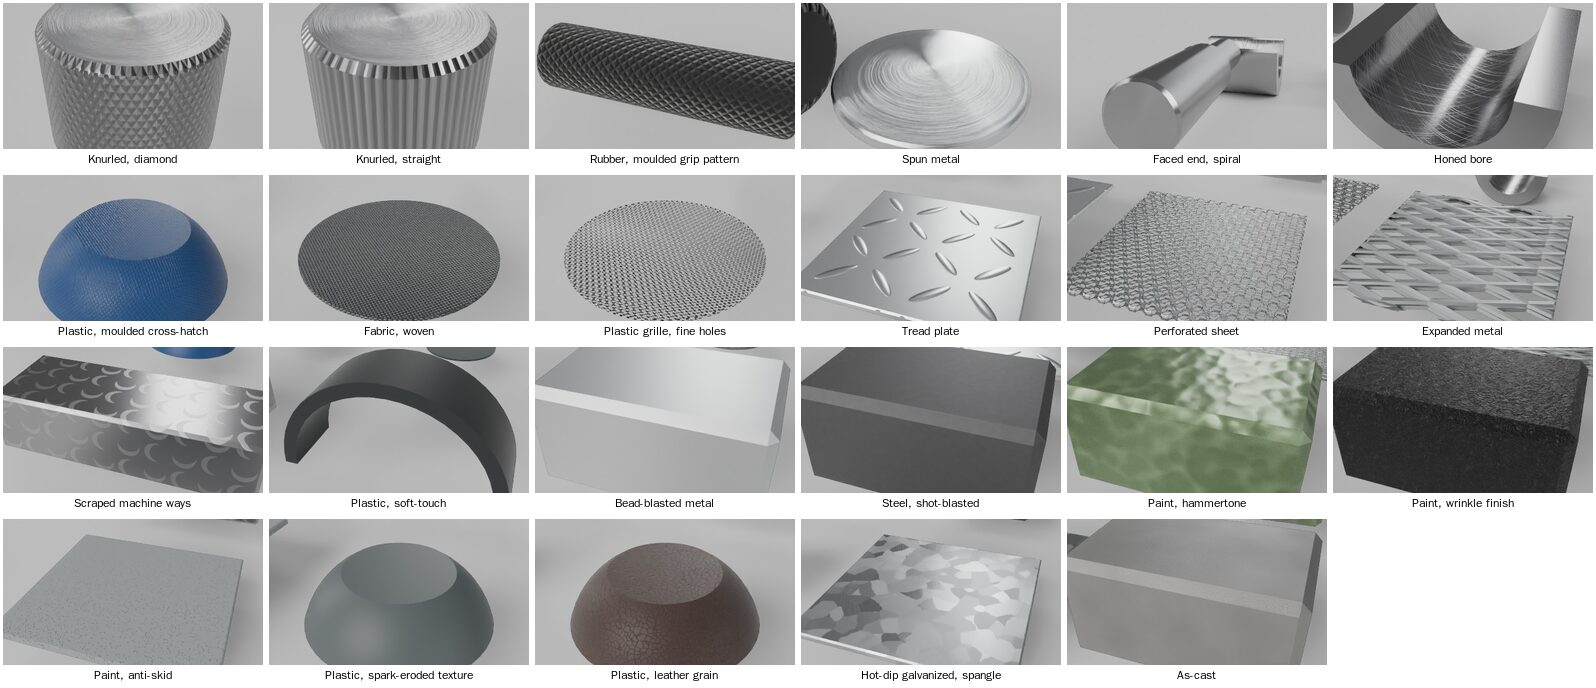
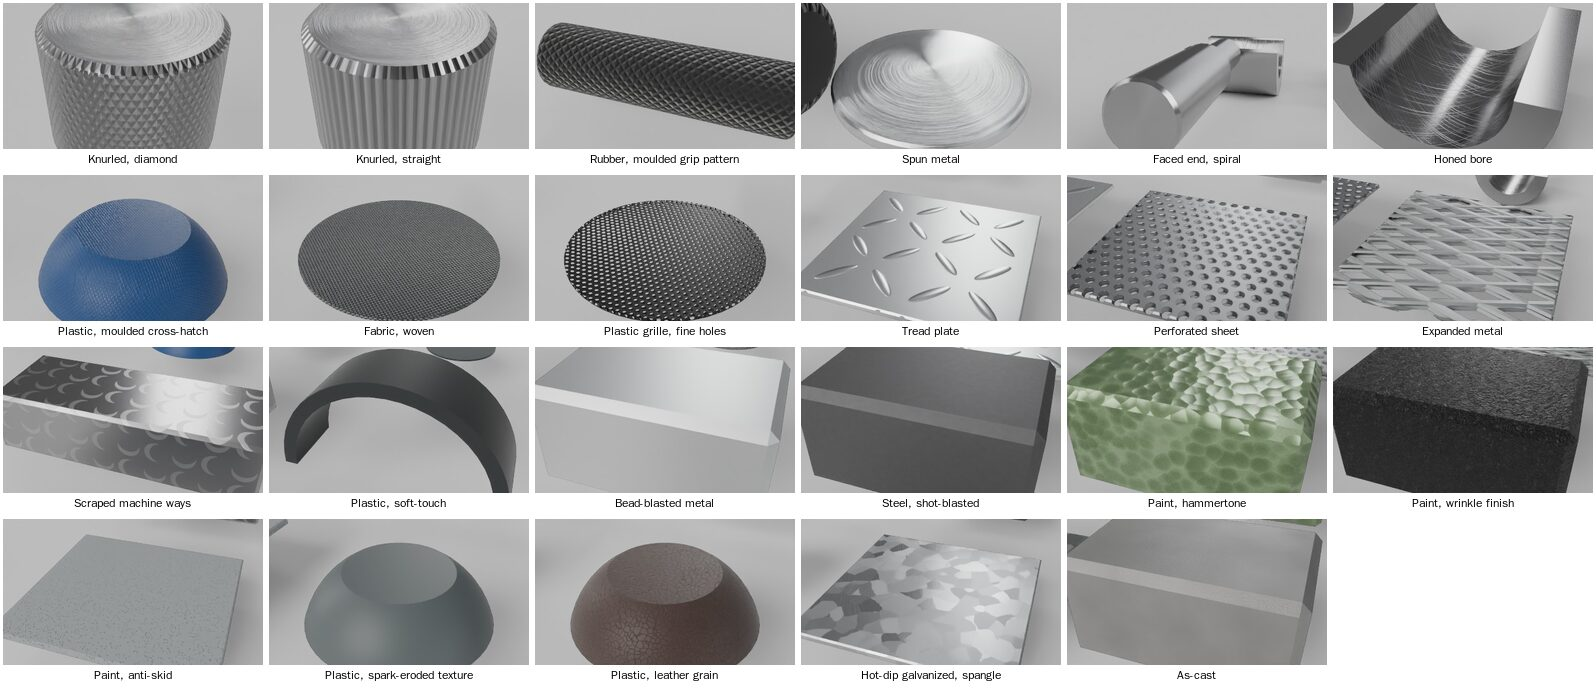
0274: hammertone with F1 Voronoi (+38 % instead of +110 %); guide sheet with the fixed hole patterns
Claude-Session: https://claude.ai/code/session_01LGPBd5EvbBfTQC9GhP8xKp

Changed region(s): [[0.6447, 0.2442, 0.8596, 0.641], [0.3377, 0.2747, 0.4912, 0.4884]]

diff --git a/fresing_render/blender/finishes.py b/fresing_render/blender/finishes.py
@@ -601,7 +601,8 @@ def hammertone(b: F, s: dict):
     """Hammer marks (Voronoi dents round a warped grid) and tiny metal flakes (a random value per 0.15 mm cell: the
     study's second Voronoi for the flakes cost more than all the rest)."""
     cell = s["cell"]
-    v = b.vor(b.vmath("ADD", b.p(), b.vmath("SCALE", b.ncol(60.0), scale=cell * 0.5)), 1.0 / cell, "SMOOTH_F1", 0.9)
+    # F1, not the study's Smooth F1 (which looks at 125 cells instead of 27): the squared map below rounds the dents
+    v = b.vor(b.vmath("ADD", b.p(), b.vmath("SCALE", b.ncol(60.0), scale=cell * 0.5)), 1.0 / cell, "F1", 0.9)
     vis = b.lod(cell)
     h = b.math("MULTIPLY", b.math("POWER", b.map(v[0], 0.0, 0.75, 0.0, 1.0), 2.0), vis)   # a round dimple per cell
     fl = b.cells(1.0 / 0.00015)
